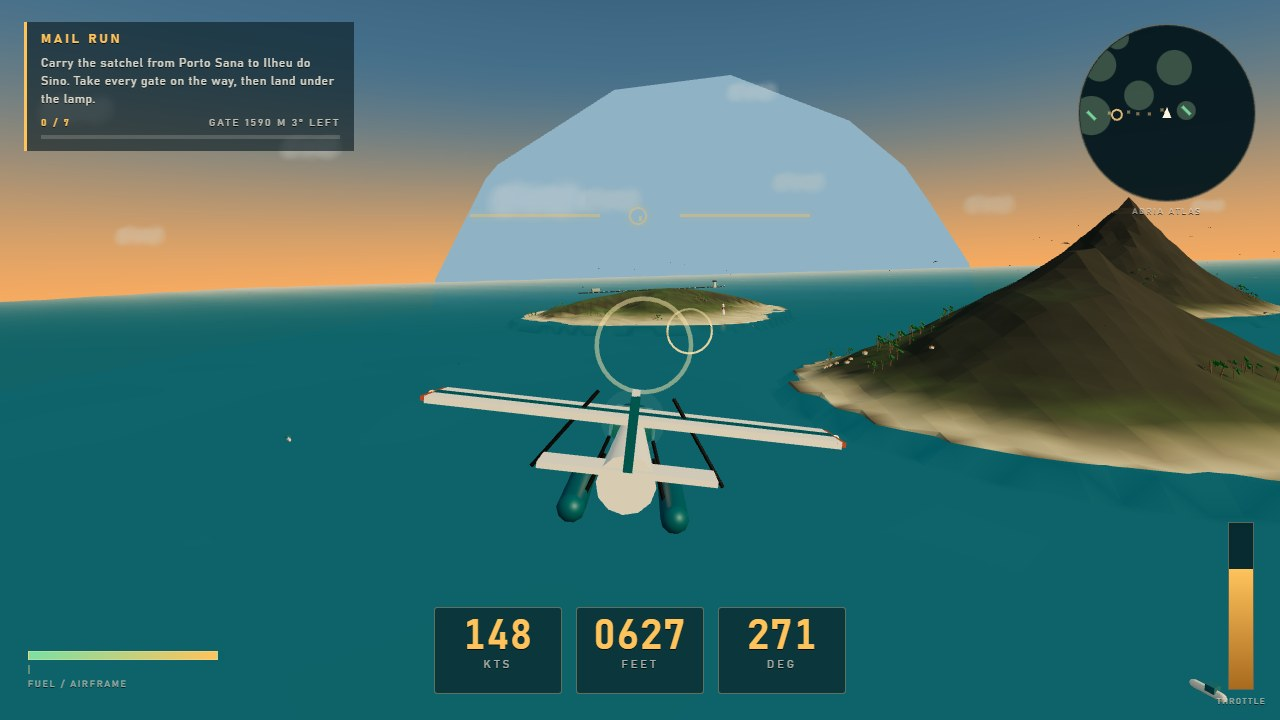
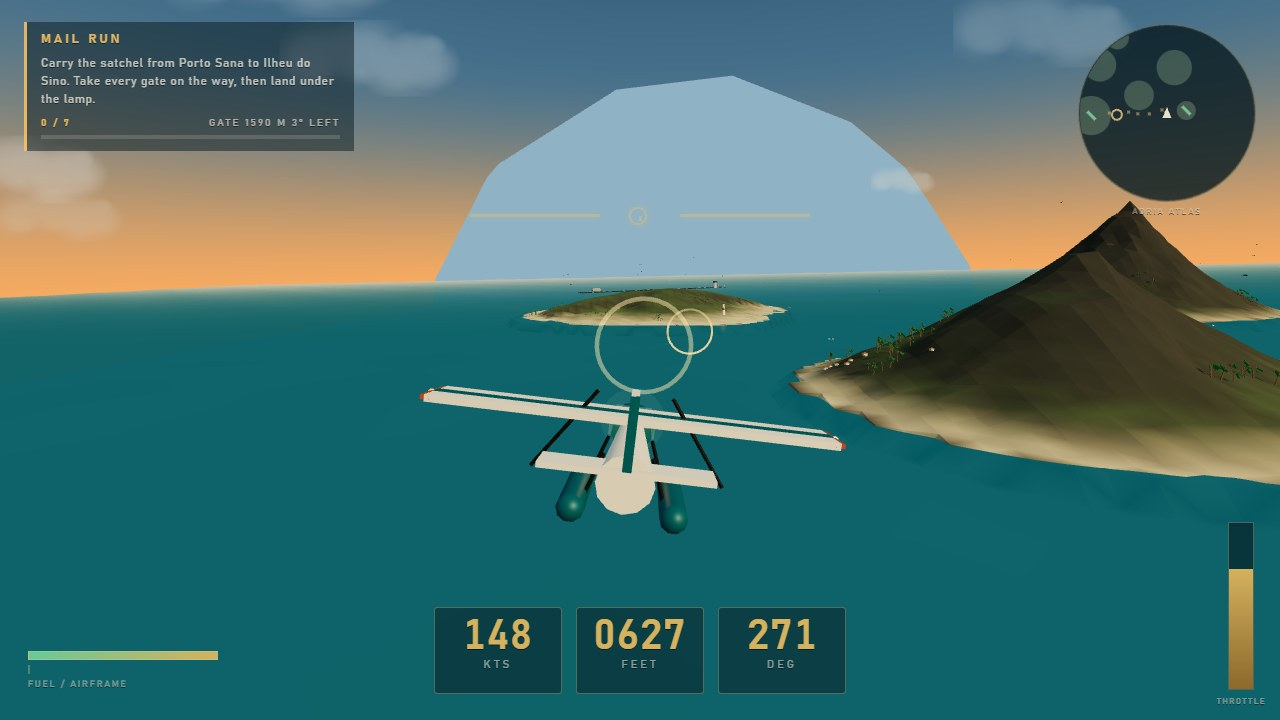
Compact cockpit dash, close-in finale, quieter HUD furniture

diff --git a/game/src/shots.js b/game/src/shots.js
@@ -47,12 +47,12 @@ export const SHOTS = {
     const pad = airstripPad(strip);
     const heading = strip.heading;
     // Approach from whichever end runs downhill to the sea, so the strip reads against water.
-    const endA = new THREE.Vector3(strip.x + Math.sin(heading) * (strip.length / 2 + 150), 0, strip.z + Math.cos(heading) * (strip.length / 2 + 150));
-    const endB = new THREE.Vector3(strip.x - Math.sin(heading) * (strip.length / 2 + 150), 0, strip.z - Math.cos(heading) * (strip.length / 2 + 150));
+    const endA = new THREE.Vector3(strip.x + Math.sin(heading) * (strip.length / 2 + 60), 0, strip.z + Math.cos(heading) * (strip.length / 2 + 60));
+    const endB = new THREE.Vector3(strip.x - Math.sin(heading) * (strip.length / 2 + 60), 0, strip.z - Math.cos(heading) * (strip.length / 2 + 60));
     const from = groundAt(endA.x, endA.z) < groundAt(endB.x, endB.z) ? endA : endB;
-    from.y = pad + 19;
-    const to = new THREE.Vector3(strip.x, pad + 3, strip.z);
-    const pose = aim(from, to, { roll: 0.05, pitch: -0.03 });
+    from.y = pad + 15;
+    const to = new THREE.Vector3(strip.x, pad + 3, strip.z).lerp(from, 0.34);
+    const pose = aim(from, to, { roll: 0.04, pitch: -0.1 });
     return { ...pose, speed: 56, throttle: 0.46, camera: 'cockpit', kind: 'medevac' };
   },
 

diff --git a/game/src/main.js b/game/src/main.js
@@ -88,6 +88,7 @@ function begin() {
   audio.start();
   chosen = MISSION_KINDS[Math.floor(Math.random() * MISSION_KINDS.length)];
   screens.hideAll();
+  document.getElementById('hud').classList.add('shot-hud');
   mount(chosen);
   state = 'flying';
   hud.banner('CLEARED FOR THE RUN');
@@ -236,6 +237,7 @@ function frame() {
 function restart() {
   if (state === 'flying') return;
   screens.hideAll();
+  document.getElementById('hud').classList.add('shot-hud');
   mount(chosen);
   state = 'flying';
 }
@@ -278,6 +280,7 @@ window.addEventListener('resize', () => {
 const shot = shotName();
 if (shot) {
   screens.hideAll();
+  document.getElementById('hud').classList.add('shot-hud');
   const first = SHOTS[shot]({ course: null, strips: AIRSTRIPS });
   mount(first.kind);
   const pose = SHOTS[shot]({ course, strips: AIRSTRIPS });

diff --git a/game/src/render/cockpit.js b/game/src/render/cockpit.js
@@ -15,11 +15,11 @@ export function buildCockpit() {
   const shield = new THREE.Mesh(new THREE.BoxGeometry(1.06, 0.1, 0.34), trim);
   shield.position.set(0, -0.36, -0.66);
   shield.rotation.x = 0.24;
-  const dash = new THREE.Mesh(new THREE.BoxGeometry(1.02, 0.34, 0.3), shell);
-  dash.position.set(0, -0.6, -0.74);
+  const dash = new THREE.Mesh(new THREE.BoxGeometry(1.04, 0.27, 0.3), shell);
+  dash.position.set(0, -0.66, -0.75);
   dash.rotation.x = 0.36;
   const panel = new THREE.Mesh(new THREE.BoxGeometry(0.62, 0.19, 0.06), panelFluoro);
-  panel.position.set(0, -0.49, -0.6);
+  panel.position.set(0, -0.56, -0.61);
   panel.rotation.x = 0.5;
   group.add(shield, dash, panel);
 

diff --git a/game/ui/hud.css b/game/ui/hud.css
@@ -231,3 +231,12 @@ html, body {
 .screen button:hover { background: #ffd68a; }
 .tally { display: flex; gap: 22px; font-size: 13px; color: var(--amber); }
 .tally b { display: block; font-size: 30px; }
+
+/* Screenshot poses: ease the furniture back so the world carries the frame. */
+#hud.shot-hud {
+  opacity: 0.82;
+}
+#hud.shot-hud .panel {
+  transform: scale(0.92);
+  transform-origin: top left;
+}
